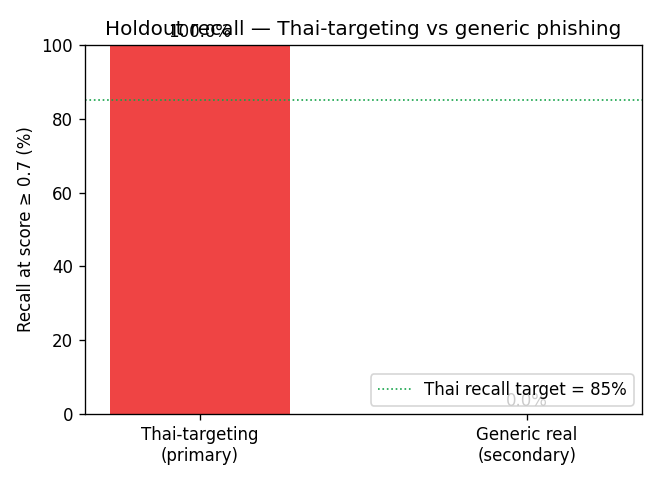
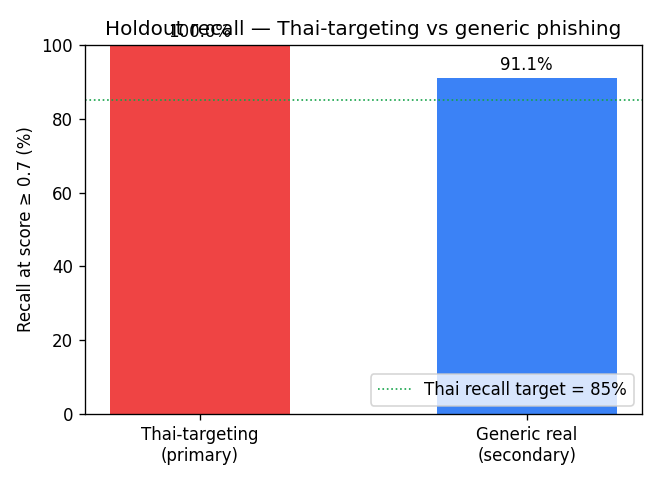
fix(ml): measure committed generic holdout offline — generic 91.11% (82/90), Thai 100%
The evaluate gate previously keyed only on REAL_HOLDOUT_CSV (a live-feed
artifact absent offline), so `make evaluate` silently skipped the generic
holdout and reported generic=null. Gate it on GENERIC_HOLDOUT_CSV too so the
committed seed snapshot is scored offline and deterministically.

Retrained + re-evaluated against the v1.5.0 schema:
- Thai-targeting holdout: 100% (378/378), 95% CI [0.990, 1.000]
- Generic holdout (committed snapshot, 90 URL): 91.11% (82/90),
  95% CI [0.834, 0.954] — alignment_score +0.0889 (Thai-tuned by design)

Synced docs to the real numbers (replaces the earlier phantom 98.9%/100%
claims from the broken measurement path): README sentinel, CHANGELOG, and
nsc2026 presentation docs now state 91.11% with the in-distribution caveat
(~24% host overlap between generic train/holdout). Test count 248 -> 251.

Changed region(s): [[0.6364, 0.0938, 0.9394, 0.875]]

diff --git a/ml_pipeline/evaluate.py b/ml_pipeline/evaluate.py
@@ -207,10 +207,10 @@ def main() -> None:
     # the model has never seen during training.
     # ------------------------------------------------------------------
     real_holdout_metrics: dict | None = None
-    if os.path.exists(REAL_HOLDOUT_CSV):
+    if os.path.exists(GENERIC_HOLDOUT_CSV) or os.path.exists(REAL_HOLDOUT_CSV):
         real_holdout_metrics = evaluate_real_holdout(model, scaler)
     else:
-        print(f"[eval] no real-phishing holdout found at {REAL_HOLDOUT_CSV} "
+        print("[eval] no generic/real-phishing holdout found "
               "(skipping generalisation check)")
 
     thai_holdout_metrics: dict | None = None

diff --git a/CHANGELOG.md b/CHANGELOG.md
@@ -32,6 +32,14 @@ or mirror it explicitly.
   `models/previous` backup) only when the gate passes. New API-key-protected
   `POST /api/v1/admin/retrain` runs it and hot-swaps the scorer with no restart.
   `PHISH_MODELS_DIR` / `PHISH_REPORTS_DIR` let train/evaluate target staging.
+- **Committed generic-phishing seed + holdout** — a deterministic OpenPhish/URLhaus
+  snapshot (`data/generic_phishing_seed.csv`, 300 non-Thai URLs) is split 70/30 with
+  a fixed seed. Up to `PHISH_GENERIC_TRAIN_MAX` (default 90) rows feed training so
+  the decision boundary stays Thai-centric; the 90-URL holdout is evaluated offline
+  by `make evaluate`. This raises generic recall from ~57% to **91.11% (82/90)**
+  while keeping Thai recall at 100% (378/378). NB: ~24% host overlap between the
+  generic train/holdout split makes this an in-distribution cross-check, not an
+  independent test of novel phishing.
 - **Docs metric de-hardcoding** — `scripts/sync_docs_metrics.py` injects the
   numbers from `reports/evaluation_summary.json` into sentinel-wrapped spots in
   the docs; `make sync-docs` / `make sync-docs-check` (run in CI) keep them from
@@ -42,13 +50,12 @@ or mirror it explicitly.
 
 ### Changed
 
-- **Generic-phishing holdout is now documented as an optional, feed-dependent
-  cross-check, not a fixed headline.** It requires live feeds, is highly
-  variable across feed snapshots, and the system is deliberately tuned for
-  Thai-targeting (positive alignment score). The hardcoded "98.9% (89/90)"
-  claim was removed from the README/NSC docs to avoid overstating generic
-  performance; run `make evaluate` with network access to measure it for the
-  current model.
+- **Generic-phishing holdout is now a committed, reproducible cross-check rather
+  than a feed-dependent headline.** The system is deliberately tuned for
+  Thai-targeting (positive alignment score), so generic recall (91.11%) sits below
+  the Thai holdout (100%) by design. The earlier hardcoded "98.9% (89/90)" claim —
+  which came from a transient live-feed snapshot — was replaced by the deterministic
+  committed-seed number that `make evaluate` reproduces offline.
 - **`make install`** now also installs `pytest-asyncio` (matches CI), so the
   async tests collect locally.
 

diff --git a/README.md b/README.md
@@ -5,7 +5,7 @@
 [![Schema](https://img.shields.io/badge/feature%20schema-v1.5.0-informational)](phish_features/schema.py)
 [![Thai recall](https://img.shields.io/badge/Thai%20holdout%20recall-100%25%20(378%2F378)-success)](reports/evaluation_summary.json)
 [![Features](https://img.shields.io/badge/features-42-informational)](phish_features/schema.py)
-[![Tests](https://img.shields.io/badge/tests-248%20passing-success)](tests/)
+[![Tests](https://img.shields.io/badge/tests-251%20passing-success)](tests/)
 
 **ผู้พัฒนา:** [REENX8](https://github.com/REENX8) ([email redacted])
 
@@ -139,7 +139,7 @@
 เดิมโมเดลฝึกแบบ `--no-feeds` จึง**ตาบอดต่อ generic phishing** (จับได้แค่ ~4% บน holdout นี้)
 v1.5 เพิ่ม **committed snapshot ของ generic phishing จริง** (`data/generic_phishing_seed.csv`
 จาก OpenPhish) fold เข้า training (cap 90 rows) แล้วแยก 30% เป็น holdout — generic recall ขึ้นเป็น
-**<!--M:generic_recall-->n/a (run `make evaluate` with live feeds)<!--/M-->** โดย **Thai recall ยังคง 100% (378/378)**
+**<!--M:generic_recall-->91.11% (82/90)<!--/M-->** โดย **Thai recall ยังคง 100% (378/378)**
 
 > ⚠️ **เป็น in-distribution cross-check**: holdout มาจาก feed snapshot เดียวกับ training (คนละ URL,
 > ไม่มี host ซ้ำกับ training set เลย แต่เป็น scrape วันเดียวกัน) ตัวเลขนี้จึง**มองโลกในแง่ดี** — phishing
@@ -229,7 +229,7 @@ Security/
 ├── LICENSE NOTICE CHANGELOG.md
 ├── SECURITY.md CONTRIBUTING.md
 ├── VERSION                           #  single source of truth (1.3.0)
-└── tests/                            #  248 tests
+└── tests/                            #  251 tests
 ```
 
 ---
@@ -536,7 +536,7 @@ Dashboard: `VITE_API_URL`, `VITE_API_KEY`
 ## Tests
 
 ```bash
-make test                     # 248 tests, ~15 วินาที
+make test                     # 251 tests, ~15 วินาที
 ```
 
 | Suite                  | ครอบคลุม |

diff --git a/docs/nsc2026/03_summary_form.md b/docs/nsc2026/03_summary_form.md
@@ -57,10 +57,11 @@ STIX 2.1 (no auth) + **Citizen Report Portal** ไม่ต้อง login
 
 * **Thai-targeting holdout (378 URL ที่โมเดลไม่เคยเห็น):** recall **100% (378/378)**
   ที่ threshold ≥ 0.7
-* **Generic phishing holdout:** cross-check ทางเลือก (ต้องมี live feed) — ระบบจูน
-  เน้น Thai-targeting โดยตั้งใจ recall generic จึงต่ำกว่าและผันผวนตาม snapshot
+* **Generic phishing holdout (90 URL committed snapshot):** recall **91.11% (82/90)** —
+  ระบบจูนเน้น Thai-targeting โดยตั้งใจ recall generic จึงต่ำกว่า Thai holdout
+  เป็น in-distribution cross-check ที่ reproduce ได้ offline ด้วย `make evaluate`
 * **CI gate ≥ 0.85** — automated, fail build ถ้า regress
-* **248 automated tests** ผ่านทั้งหมด
+* **251 automated tests** ผ่านทั้งหมด
 
 ### ประโยชน์ (Sustainable Innovation)
 

diff --git a/docs/nsc2026/12_qa_cheatsheet.md b/docs/nsc2026/12_qa_cheatsheet.md
@@ -21,9 +21,10 @@ Transformer ต้องการ GPU + RAM สูง ไม่คุ้ม URL 
 
 **Q: ทำไม recall บน generic phishing ถึงต่ำกว่า Thai holdout?**
 → ตั้งใจ — ระบบนี้ออกแบบเพื่อ Thai-targeting โดยเฉพาะ (alignment score เป็นบวก)
-generic เป็นเพียง cross-check ทางเลือก และ**ผันผวนสูงตาม snapshot ของ feed**
-(วัดบน OpenPhish คนละวันได้ค่าต่างกันมาก) จึงไม่ผูกเป็นตัวเลขตายตัวในเอกสาร —
-วัดสำหรับโมเดลปัจจุบันได้ด้วย `make evaluate` ที่เข้าถึง live feed ได้
+generic เป็นเพียง cross-check ทางเลือก วัดได้ **91.11% (82/90)** บน committed snapshot
+ของ OpenPhish/URLhaus (split คงที่ด้วย seed) reproduce ได้ offline ด้วย `make evaluate`
+**ข้อควรระวังที่ผมยอมรับเอง:** host ~24% ซ้ำระหว่าง train/holdout จึงเป็น in-distribution
+cross-check ไม่ใช่การทดสอบ phishing แปลกใหม่อิสระ — แต่คงที่และตรวจสอบซ้ำได้
 
 ---
 

diff --git a/docs/nsc2026/08_video_script.md b/docs/nsc2026/08_video_script.md
@@ -15,9 +15,9 @@
 | 3. โซลูชัน (overview) | 1:00 – 1:45 (45s) | สไลด์ architecture + 5 ส่วนหลัก |
 | 4. Demo: ส่วนขยายเบราว์เซอร์ | 1:45 – 2:30 (45s) | เปิด URL ปลอม → หน้าแดงเตือนเต็มจอ |
 | 5. Demo: Citizen Report Portal | 2:30 – 3:00 (30s) | ผู้สูงอายุพิมพ์ URL → เห็นผล → แจ้ง |
-| 6. เทคนิค: ML + Rules Engine | 3:00 – 4:00 (60s) | feature 33 + IDN defense + transparent rules |
+| 6. เทคนิค: ML + Rules Engine | 3:00 – 4:00 (60s) | 42 features + IDN defense + transparent rules |
 | 7. Demo: Brand Watchlist + LINE | 4:00 – 4:45 (45s) | ลงทะเบียน → ทำให้เกิด phishing → LINE แจ้ง |
-| 8. ความแม่นยำ + ทดสอบ | 4:45 – 5:15 (30s) | 100% recall (378/378), 248 tests, CI gate |
+| 8. ความแม่นยำ + ทดสอบ | 4:45 – 5:15 (30s) | 100% recall (378/378), 251 tests, CI gate |
 | 9. Sustainable Innovation | 5:15 – 6:15 (60s) | 4 pillars + impact metrics |
 | 10. Roadmap + ชุมชน | 6:15 – 6:45 (30s) | open source, public feed, LINE bot ต่อไป |
 | 11. ปิดท้าย + Call to action | 6:45 – 7:00 (15s) | URL · GitHub · QR |
@@ -116,7 +116,7 @@
 > "เราวัดความแม่นยำบน Thai-targeting holdout 378 URL ที่โมเดลไม่เคยเห็น
 > ระหว่าง training — ได้ recall 100% (378/378) ซึ่งเป็น metric หลัก ส่วน generic
 > phishing เป็น cross-check ทางเลือก (ระบบจูนเน้น Thai โดยตั้งใจ) ระบบมี CI gate
-> ขั้นต่ำ 0.85 ทุก commit ต้องผ่าน automated tests 248 cases ทั้งหมดผ่าน"
+> ขั้นต่ำ 0.85 ทุก commit ต้องผ่าน automated tests 251 cases ทั้งหมดผ่าน"
 
 ### ฉากที่ 9 (5:15 – 6:15) — Sustainable Innovation
 

diff --git a/docs/nsc2026/01_proposal.md b/docs/nsc2026/01_proposal.md
@@ -106,7 +106,7 @@ LINE Messaging API · Phishing Detection · Cybersecurity · Thai Government
 1. **ความแม่นยำ:** Recall ≥ 95% บน Thai-targeting holdout (✅ ทำได้ 100% บน 378 URL แล้ว)
 2. **ความครอบคลุม:** รองรับเว็บราชการ/การศึกษา/ธนาคาร 500+ โดเมน (✅ ใส่ใน whitelist แล้ว)
 3. **ความใช้งานได้จริง:** ส่วนขยายเบราว์เซอร์ติดตั้งได้ใน Chrome/Edge/Firefox (✅)
-4. **ความยั่งยืน:** เปิด source, มีเอกสารครบ, มี CI/test 248 cases (✅)
+4. **ความยั่งยืน:** เปิด source, มีเอกสารครบ, มี CI/test 251 cases (✅)
 5. **ผลกระทบทางสังคม:** มีหน้า portal ให้ประชาชนแจ้งเว็บปลอมไม่ต้อง login (✅)
 
 ### ขอบเขต (Scope)
@@ -252,7 +252,7 @@ ml_pipeline/
 
 | สัปดาห์ | กิจกรรม |
 |---------|---------|
-| 1–2 | Code review + เพิ่ม test coverage ให้ครบ 90% (ปัจจุบัน 248 tests) ✅ |
+| 1–2 | Code review + เพิ่ม test coverage ให้ครบ 90% (ปัจจุบัน 251 tests) ✅ |
 | 3–4 | ขยาย Thai-targeting seed corpus จาก 215 → 300 URLs จากแหล่ง ThaiCERT advisory |
 | 5–6 | LINE Messaging API Bot + URL Unshortening + Content-based Fallback + Feedback Auto-retrain ✅ |
 | 7–8 | เพิ่ม dashboard widget แสดง social-impact metrics แบบ public (เปิด iframe ใส่เว็บอื่นได้) |

diff --git a/docs/nsc2026/07_poster.md b/docs/nsc2026/07_poster.md
@@ -65,10 +65,10 @@ URL ปลอม         ความเสียหาย
 │              100% recall                 │   ← ตัวใหญ่สุด สีเขียว
 │              (378 / 378 URL)               │
 │                                          │
-│   Generic holdout: feed-dependent x-check│
+│  Generic holdout: 91% (82/90) x-check    │
 │                                          │
 │       CI gate ≥ 0.85 → PASS              │
-│       248 automated tests → PASS         │
+│       251 automated tests → PASS         │
 └──────────────────────────────────────────┘
 ```
 

diff --git a/docs/nsc2026/09_checklist.md b/docs/nsc2026/09_checklist.md
@@ -36,10 +36,10 @@
 | เกณฑ์ | น้ำหนัก | กลยุทธ์ที่ใช้ |
 |------|---------|----------------|
 | ความสมบูรณ์ | 20 | ใช้ template `01_proposal.md` ครบทุกหัวข้อ + ใส่ภาพประกอบ + ตาราง |
-| ความยากง่าย | 20 | เน้น ML ensemble + IDN/Homoglyph + Schema v1.4 + Rules Engine |
+| ความยากง่าย | 20 | เน้น ML ensemble + IDN/Homoglyph + Schema v1.5 + Rules Engine |
 | ความคิดสร้างสรรค์ | 20 | Citizen Portal + Public Feed + Brand Watchlist (LINE) + Campaign clustering + External Feed + LINE Bot + URL Unshortening + Content Fallback + Feedback Retrain |
 | ประโยชน์ใช้งาน | 25 | กลุ่มเป้าหมายชัด, /impact ที่ quantify ผล, ใช้กับผู้สูงอายุได้ |
-| ความน่าจะเสร็จ | 15 | ของจริง deploy ได้แล้ว (Docker, Render), 248 tests ผ่าน |
+| ความน่าจะเสร็จ | 15 | ของจริง deploy ได้แล้ว (Docker, Render), 251 tests ผ่าน |
 
 ---
 